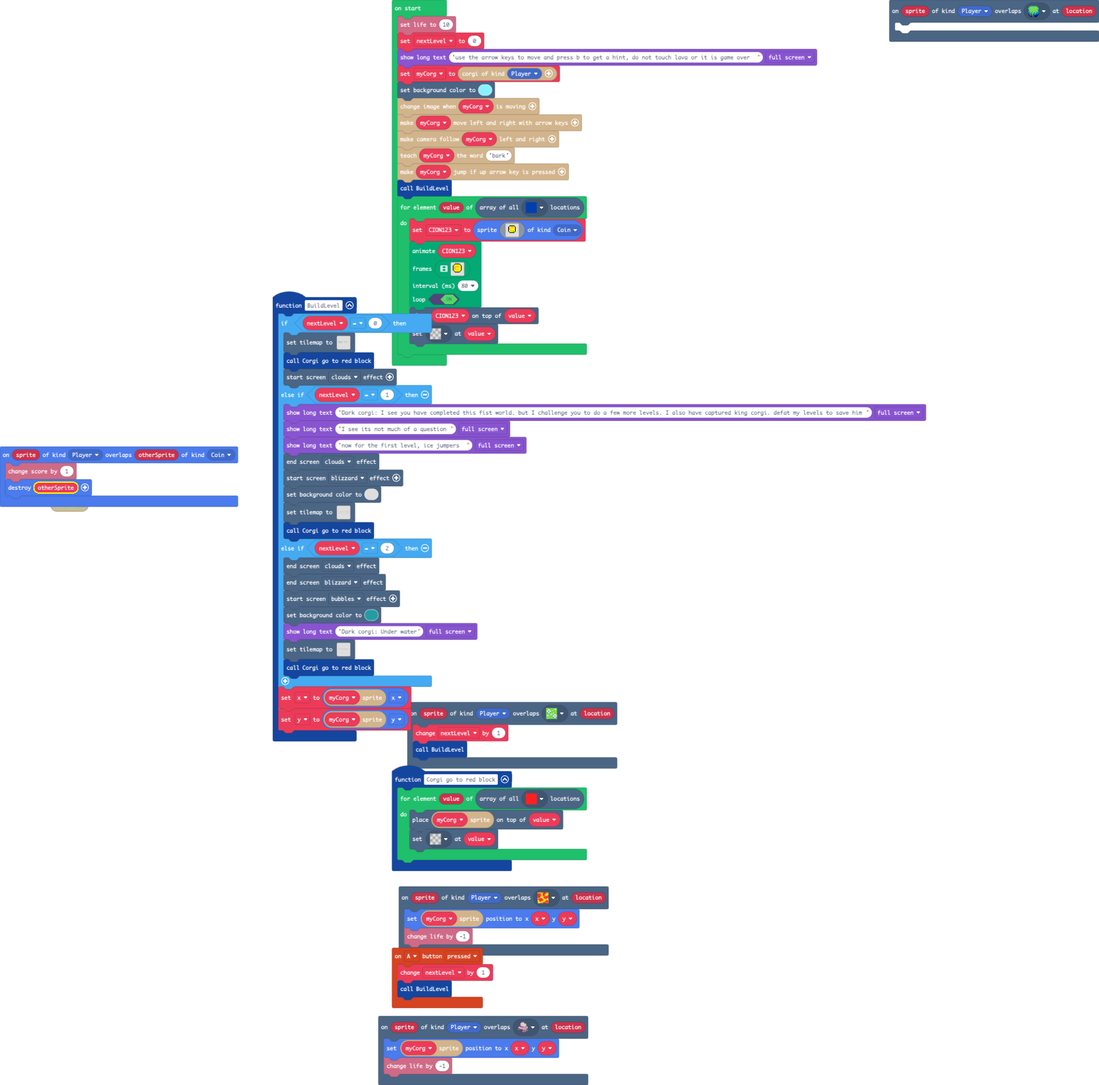
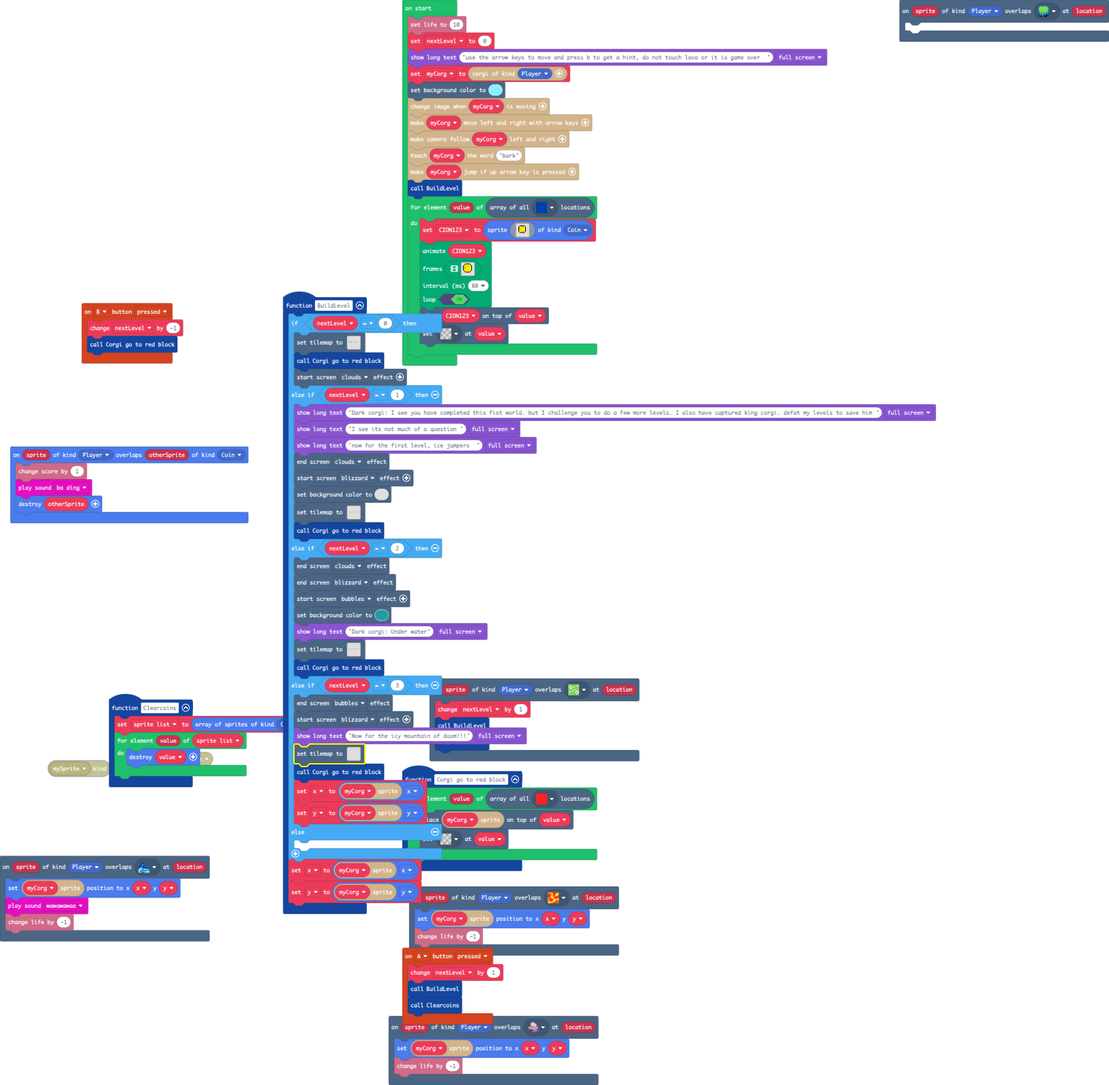
Update main.blocks, main.ts, tilemap.g.jres, tilemap.g.ts

diff --git a/tilemap.g.ts b/tilemap.g.ts
@@ -14,14 +14,18 @@ namespace myTiles {
     export const tile5 = image.ofBuffer(hex``);
     //% fixedInstance jres blockIdentity=images._tile
     export const tile6 = image.ofBuffer(hex``);
+    //% fixedInstance jres blockIdentity=images._tile
+    export const tile7 = image.ofBuffer(hex``);
+    //% fixedInstance jres blockIdentity=images._tile
+    export const tile8 = image.ofBuffer(hex``);
 
     helpers.registerTilemapFactory(function(name: string) {
         switch(helpers.stringTrim(name)) {
-            case "level": return tiles.createTilemap(hex`5000140000010101010101010101010101010101000000000000000000000100000000000000000000000000000000000000000000000000000000020202020202000000000000000000000000000000000000000000000000000007000000010000000700010101010101010100010000000000000000000202020202020101010102010101010202020202020202020200000000000000000000000004000000000000000707070000000101010001000001010000000101000000000001000000000000000000000000000000000000000200000000000000000200000000000000000000000000000000000000000000000005010101010100000101000107000001010000010101010101010100000000000000010000000000000000000000020000020202000000020000020200000000000000000000000000000000000000000000000000000000010100010100000101010000000000000000000000000000010000000000000000000000000002000000000200000002000002020200000000000000000000000000000000000600000000000000000101010000000000010101010000010101010100000000010000000000000000000002000000000202020000020000000200020202020002000002000003000003000003000000020000000000000001010101000000000101010101010000000000000000010000000000000000000000000200000000000000000002000000000002020202000000000000000000000000000000000000000101010101010101010101010101010101010101010101010101010100000000000000000000000000020202020202020202020202020202020202020200000000000000000000000000000000000000000000000000000000000000000000000000000000000000000000000000000000000000000000000000000000000000000000000000000000000000000000000000000000000000000000000000000000000000000000000000000000000000000000000000000000000000000000000000000000000000000000000000000000000000000000000000000000000000000000000000000000000000000000000202020202020202020202020202020202020202000000000000000000000000000000000000000000000000000000000000000000000000000000000000000000000000000000000000000000000000000000000000000000000000000000000000000002020202020202020202000000000000000000000000000000000000000000000000000000000000000000000000000000000000000000000000000000000000000000000000000000000000000000000000000000000000000000000000000000000000000000000000000000000000000000000000000000000000000000000000000000000000000000000000000000000000000000000000000000000000000000000000000000000000000000000000000000000000000000000000000000000000000000000000000000000000000000000000000000000000000000000000000000000000000000000000010000000000000000000000000000000000000000000000000000000000000000000000000000000000000000000000000000000000000000000000000000000000000000000000000000000000000001000000000000000000000000000000000000000000000000000000000000000000000000000000000000000000000000000000000000000000000000000000000000000000000000000000000000000100000000000000000000000000000000000000000000000000000000000000000000000000000000000000000000000000000000000000000000000000000000000000000000000000000000000000010000000000010000000000000000000000000000000000000000000000000000000000000000000000000000000000000000000000000000000000000000000000000000000000000000000000000001000000000000000000000000000000000000000000000000000000000000000000000000000000000000000000000000000000000000000000000000000000000000000000000000000000000000000100000000000000000000000000000000000000000000000000000000000000000000000000000000000000000000000000000000000000000000000000`, img`
+            case "level": return tiles.createTilemap(hex`5000140000010101010101010101010101010101000000000000000000000100000000000000000000000000000000000000000000000007070707020202020202000000000000000000000000000000000000000000000000000007000000010000000700010101010101070100010000000000000000000202020202020101010102010101010202020202020202020200000007000000000007000004000007070000000707070000000101010001000001010000000101070700000001000000000000000000000000000000000000000200000707070000000200000000000000000000000000000000000000000000000005010101010100000101000707000001010000010101010101010100000000000000010000000000000000000000020000020202000000020000020200000000000000000000000000000000000000000000000000000000010100010100000101010000000000000000000000000000010000000000000000000000000002070000000200000002000002020200000000000000000000000000000000000600000000000000000101010000000000010101010000010101010100000000010000000000000000000002000000000202020000020000000200020202020002000002000003000003000003000000020000000000000001010101000000000101010101010000000000000000010000000000000000000000000207070000000000000002000000000002020202000000000000000000000000000000000000000101010101010101010101010101010101010101010101010101010100000000000000000000000000020702020202020202020202020202020202020200000000000000000000000000000000000000000000000000000000000000000000000000000000000000000000000000000000000000000000000000000000000000000000000000000000000000000000000000000000000000000000000000000000000000000000000000000000000000000000000000000000000000000000000000000000000000000000000000000000000000000000000000000000000000000000000000000000000000000000000202020202020202020202020202020202020202000000000000000000000000000000000000000000000000000000000000000000000000000000000000000000000000000000000000000000000000000000000000000000000000000000000000000002020202020202020202000000000000000000000000000000000000000000000000000000000000000000000000000000000000000000000000000000000000000000000000000000000000000000000000000000000000000000000000000000000000000000000000000000000000000000000000000000000000000000000000000000000000000000000000000000000000000000000000000000000000000000000000000000000000000000000000000000000000000000000000000000000000000000000000000000000000000000000000000000000000000000000000000000000000000000000000010000000000000000000000000000000000000000000000000000000000000000000000000000000000000000000000000000000000000000000000000000000000000000000000000000000000000001000000000000000000000000000000000000000000000000000000000000000000000000000000000000000000000000000000000000000000000000000000000000000000000000000000000000000100000000000000000000000000000000000000000000000000000000000000000000000000000000000000000000000000000000000000000000000000000000000000000000000000000000000000010000000000010000000000000000000000000000000000000000000000000000000000000000000000000000000000000000000000000000000000000000000000000000000000000000000000000001000000000000000000000000000000000000000000000000000000000000000000000000000000000000000000000000000000000000000000000000000000000000000000000000000000000000000100000000000000000000000000000000000000000000000000000000000000000000000000000000000000000000000000000000000000000000000000`, img`
 .222222222222222..........2............................222222...................
 ...........2.....22222222...........2222222222222222222222222...................
 .......222.2..22...22.........................2........2........................
-.22222..22.2.......22222222.......22222222....2..222...2..22....................
+.22222..22.2....2..22222222.......22222222....2..222...2..22....................
 ...........22..222.......2......2........2....2....2...2..222...................
 .......222.....2222..22222....2..........2....222..2...2.2222.2..2..2..2.22...2.
 ......2222....222222.....2..2............2.........2.....2222222222222222222222.
@@ -39,7 +43,7 @@ namespace myTiles {
 ..................2.............................................................
 ..................2................................2............................
 `, [myTiles.transparency16,sprites.builtin.forestTiles0,sprites.builtin.forestTiles4,sprites.builtin.forestTiles8,myTiles.tile1,myTiles.tile5,sprites.castle.tileGrass2,myTiles.tile6], TileScale.Sixteen)
-            case "level_0": return tiles.createTilemap(hex`500010000303030303030303030303030303030303030303030303030303030303030303030303030303030303030303030303030303030303030303030303030303030303030303030303030303030303030303000000000000000000000000000000000000000000000000000000000000000000000000000000000000000000000000000000000000000000000000000000000000000000000000000000000000000300000000000000000000000000000000000000000000000000000000000000000000000000000000000000000000000000000000000000000000000000000000000000000000000000000000000000030400000000000000000000000000000000000000000000000000000000000000000000000000000000000000000000000000000000000000000000000000000000000000000000000000000000000003000000000000000000000000000000000000000000000000000000000000010101010202020202020202020202000000000000000000000000000000000000000000000000000000000000000000000300000000000700000000000000000000000000000000000000000000000000020000020000000000000000000000000000000002000000000000020000000000000000000000000000000000000600030000000000050000000001000000010000000100000000010000000100000002000002000000000000000000000000000003030303030303030303030303000200000000000200000000000000000003000303030303030303030303030303030303030303030303030303030303030200000200000000000000000000000000000000000000000000000000000303030303000303030300000000020101010300000000000000000000000000000003030000000000000000000000020000020000020000000000000000000000000000000000000000000000000000000000000303030000030303030303000000030000000000000000000000000000000000000000000000000000000000000002000002000000000000000000000000000000000000000000000000000000000000000000000000000000000000000003020200000000000000000000000000000000000000000000020000000000000200000200000000000000000000000000000000000000000000000000000000000000000000000000000200000000000302020200000000000000000000000000000000000000000000000000000000020000020000000000000000000000000000000000000000000000000000000000000000000000000000000000000000030202020200000000000000000000000000000000000200000000000000000002000002000000000000000000000000000000000000000000000000000000000000000000000000000000000000000003020202020100000000000000000000000000000000000000000000000000000200000200000000020000000200000002000000020000000002000000000000020000000000020000000000000000000302020202010100000002000000020000000200000000000000000000000000020000000000000000000000000000000000000000000000000000000000000000000000000000000000000000000000030202020202020303030303030303030303030303030303030303030303030302020202020202000303030303030303030303030303030303030303030303030303030303030303030303030303030303`, img`
+            case "level_0": return tiles.createTilemap(hex`500010000303030303030303030303030303030303030303030303030303030303030303030303030303030303030303030303030303030303030303030303030303030303030303030303030303030303030303000000000000000000000000000000000000000000000000000000000000000000000000000000000000000000000000000000000000000000000000000000000000000000000000000000000000000300000000000000000000000000000000000000000000000000000000000000000000000000000000000000000000000000000000000000000000000000000000000000000000000000000000000000030400000000000000000000000000000000000000000000000000000000000008080808080808080808080808080000000000000000000000000000000000000000000000000000000000000000000003000000000000000000000000000000000000000000000000000000000000010101010202020202020202020202000000000000080000000000000800000000000000000000000000000000000000000300000000000700000000080000000800000008000000000800000008000000020000020000000000000000000000000000000002000000000000020000000008000000000008000000000000000600030000000000050000000001000000010000000100000000010000000100000002000002000000000000000000000000000003030303030303030303030303000200000000000200000000000000000003000303030303030303030303030303030303030303030303030303030303030200000200000000000000000000000000000000000000000000000000000303030303000303030300000000020101010300000000000000000000000000000003030000000000000000000000020000020000020000000000000000000000000000000000000000000000000000000000000303030000030303030303000000030000000000000000000000000000000000000000000000000000000000000002000002000000000000000000000000000000000000000000000000000000000000000000000000000000000000000003020200000000000000000000000000000000000000000000020000000000000200000200000000000000000000000000000000000000000000000000000000000000000000000000000200000000000302020200000000000000000000000000000000000000000000000000000000020000020000000000000000000000000000000000000000000000000000000000000000000000000000000000000000030202020200000000000000000000000000000000000200000000000000000002000002000000000000000000000000000000000000000000000000000000000000000000000000000000000000000003020202020100000000000000000000000000000000000000000000000000000200000200000000020000000200000002000000020000000002000000000000020000000000020000000000000000000302020202010100000002000000020000000200000000000000000000000000020000000000000000000000000000000000000000000000000000000000000000000000000000000000000000000000030202020202020303030303030303030303030303030303030303030303030302020202020202000303030303030303030303030303030303030303030303030303030303030303030303030303030303`, img`
 ................................................................................
 ...............................2................................................
 ................................................................................
@@ -56,7 +60,7 @@ namespace myTiles {
 22222..........................2..2....2..22...2...2....2......2.....2..........
 222222...2...2...2.............2................................................
 222222.........................2222222..........................................
-`, [myTiles.transparency16,myTiles.tile3,myTiles.tile4,sprites.dungeon.hazardLava1,myTiles.tile1,myTiles.tile2,myTiles.tile5,sprites.castle.tileGrass2], TileScale.Sixteen)
+`, [myTiles.transparency16,myTiles.tile3,myTiles.tile4,sprites.dungeon.hazardLava1,myTiles.tile1,myTiles.tile2,myTiles.tile5,sprites.castle.tileGrass2,myTiles.tile6], TileScale.Sixteen)
             case "level_1": return tiles.createTilemap(hex`500010000000000000000000000000000000000000000000000000000000000000000000000000000000000000000000000000000000000000000000000000000000000000000000000000000000000000000000000000000000000000000000000000000000000000000000000000000000000000000000000000000000000000000000000000000000000000000000000000000000000000000000000000000000000000000000000000000000000000000000000000000000000000000000000000000000000000000000000000000000000000000000000000000000000000000000000000000000000000000000000000000000000000000000000000000000000000000000000000000000000000000000000000000000000000000000000000000000000000000000000000000000000000000000000000000000000000000000000000000000000000000000000000000000000000000000000000000000000000000000000000000000000000000000000000000000000000000000000000000000000000000000000000000000000000000000000000000000000000000000000000000000000000000000000000000000000000000000000000000000000000000000000000000000000000000000000000000000000000000000000000000000000000000000010101010101010101010101010101010101010101010101010101010101010101010101010101010101010101010101010101010101010100000000000000000000000000000000010101010101010101000000000000000000000000000000000000000000000000000000000000000000000000000000000000000000000000000000000000000000000000000000000000000000000000000000000000000000000000000000000000000000000000000000000000000000000000000000000000000000000000000000000000000000000000000000000000000000000000000000000000000000000000000000000000000000000000000000000000000000000000000000000000000000000000000000000000000000000000000000000000000000000000000000000000000000000000000000000300000003000000030000000300000000030000000300000003000000000300000003030303030303030303030303030303030303030303030303030303020000000000000000000000000000000000000000000000000000000000000000000000000000000000000000000000000000000000000000000000000000000000000000000000030000000000000000000000000000000000000000000000000000000000000000000000000000000000000000000000000000000000000000000000000000000000000000000000000000000000000000000000000000000000000000000000000000000000000000000000000000000000000000000000000000000000000000000000000000000000000000000000000000000000000000000000000000000000000000000000000000000000000000000000000000000000000000000000000000000000000000000000000000000000000000000000000000000000000000000000000000000000000000000000000000000000000000000000000000000000000000000000000000000000000000000000000000000000000000000000000000000000000000000000000000000000000000000000000000000000000000000000000000000000000000000000000000000000000000`, img`
 ................................................................................
 ................................................................................
@@ -75,7 +79,7 @@ namespace myTiles {
 ................................................................................
 ................................................................................
 `, [myTiles.transparency16,sprites.builtin.coral4,sprites.builtin.oceanSand3,sprites.builtin.oceanSand6], TileScale.Sixteen)
-            case "level_2": return tiles.createTilemap(hex`500010000600000000000000000000000000000000000000000000000000000000000000000000000000000000000000000000000000000000000000000000000000000000000000000000000000000000000000000000000000000000000000000000000000000000000000000000000000000000000000000000000000000000000000000000000000000000000000000000000000000000000000000000000000000000000000000000000000000000000000000000000000000000000000000000000000000000000000000000000000000000000000000000000000000000000000000000000000000000000000000000000000000000000000000000000000000000000000000000000000000000000000000000000000000000000000000000000000000000000000000000000000000000000000000000000000000000000000000000000000000000000000000000000000000000000000000000000000000000000000000000000000000000000000000000000000000000000000000000000000000000000000000000000000000000000000000000000400000004000000040000000004000000000400000000000400000000000004000000000000040000000000000000040000000000040000000000000000000000000000000000000000000000000000010101010101010101010101010101010101010101010101010101010101010401010101010101010101010101010104010101010101010105050000000500000005000000000005010101010101010101000000000000000000000000000000000000000000000000000000000000000000000000000000000000000000000000000000000000000404000000000000000000000000000000000000000000000000000000000000000000000000000000000000000000000000000000000000000000000000000000000000000000000000000000000000040400000000000000000000000000000000000000000000000000000000000000000000000000000000000000000000000000000000000000000000000000000000000000000000000000000000000000040404040404040404040404040404000300000003000000030000000300000000030000000300000003000000000300000003030303030303030303030303030303030303030303030303030303020000000000000000000000000000000000000000000000000000000000000000000000000000000000000000000000000000000000000000000000000000000000000000000000030000000000000000000000000000000000000000000000000000000000000000000000000000000000000000000000000000000000000000000000000000000000000000000000000000000000000000000000000000000000000000000000000000000000000000000000000000000000000000000000000000000000000000000000000000000000000000000000000000000000000000000000000000000000000000000000000000000000000000000000000000000000000000000000000000000000000000000000000000000000000000000000000000000000000000000000000000000000000000000000000000000000000000000000000000000000000000000000000000000000000000000000000000000000000000000000000000000000000000000000000000000000000000000000000000000000000000000000000000000000000000000000000000000000000000`, img`
+            case "level_2": return tiles.createTilemap(hex`500010000600000000000000000000000000000000000000000000000000000000000000000000000000000000000000000000000000000000000000000000000000000000000000000000000000000000000000000000000000000000000000000000000000000000000000000000000000000000000000000000000000000000000000000000000000000000000000000000000000000000000000000000000000000000000000000000000000000000000000000000000000000000000000000000000000000000000000000000000000000000000000000000000000000000000000000000000000000000000000000000000000000000000000000000000000000000000000000000000000000000000000000000000000000000000000000000000000000000000000000000000000000000000000000000000000000000000000000000000000000000000000000000000000000000000000000000000000000000000000000000000000000000000000000000000000000000000000000000000000000000000000000000000000000000000000000000000400070704000707040007070704000707070400070707000400070707070704000707070700040007070707070707040000070707070707070700000000000000000000000000000707070707070707070101010101010101010101010101010101010101010101010101010101010401010101010101010101010101010104010101010101010105050000000500000005000000000005010101010101010101000000000000000000000000000000000000000000000000000000000000000000000000000000000000000000000000000000000000000404040404040404040404040404040400000000000000000000000000000000000000000000000000000000000000000000000000000000000000000000000000000000000000000000000000000000040400000000000000000000000000000000000000000000000000000000000000000000000000000000000000000000000000000000000000000000000000000000000000000000000000000000000000040404040404040404040404040404000300000003000000030000000300000000030000000300000003000000000300000003030303030303030303030303030303030303030303030303030303020000000000000000000000000000000000000000000000000000000000000000000000000000000000000000000000000000000000000000000000000000000000000000000000030000000000000000000000000000000000000000000000000000000000000000000000000000000000000000000000000000000000000000000000000000000000000000000000000000000000000000000000000000000000000000000000000000000000000000000000000000000000000000000000000000000000000000000000000000000000000000000000000000000000000000000000000000000000000000000000000000000000000000000000000000000000000000000000000000000000000000000000000000000000000000000000000000000000000000000000000000000000000000000000000000000000000000000000000000000000000000000000000000000000000000000000000000000000000000000000000000000000000000000000000000000000000000000000000000000000000000000000000000000000000000000000000000000000000000`, img`
 ................................................................................
 ................................................................................
 ................................................................................
@@ -92,7 +96,7 @@ namespace myTiles {
 ................................................................................
 ................................................................................
 ................................................................................
-`, [myTiles.transparency16,sprites.builtin.coral4,sprites.builtin.oceanSand3,sprites.builtin.oceanSand6,sprites.castle.rock0,sprites.builtin.coral1,myTiles.tile5], TileScale.Sixteen)
+`, [myTiles.transparency16,sprites.builtin.coral4,sprites.builtin.oceanSand3,sprites.builtin.oceanSand6,sprites.castle.rock0,sprites.builtin.coral1,myTiles.tile5,myTiles.tile6], TileScale.Sixteen)
         }
         return null;
     })

diff --git a/main.ts b/main.ts
@@ -3,7 +3,12 @@ namespace SpriteKind {
 }
 sprites.onOverlap(SpriteKind.Player, SpriteKind.Coin, function (sprite, otherSprite) {
     info.changeScoreBy(1)
+    music.baDing.play()
     otherSprite.destroy()
+})
+controller.B.onEvent(ControllerButtonEvent.Pressed, function () {
+    nextLevel += -1
+    Corgi_go_to_red_block()
 })
 scene.onOverlapTile(SpriteKind.Player, sprites.builtin.forestTiles0, function (sprite, location) {
 	
@@ -11,6 +16,12 @@ scene.onOverlapTile(SpriteKind.Player, sprites.builtin.forestTiles0, function (s
 controller.A.onEvent(ControllerButtonEvent.Pressed, function () {
     nextLevel += 1
     BuildLevel()
+    Clearcoins()
+})
+scene.onOverlapTile(SpriteKind.Player, myTiles.tile8, function (sprite, location) {
+    myCorg.sprite.setPosition(x, y)
+    music.wawawawaa.play()
+    info.changeLifeBy(-1)
 })
 function BuildLevel () {
     if (nextLevel == 0) {
@@ -34,6 +45,97 @@ function BuildLevel () {
         game.showLongText("Dark corgi: Under water", DialogLayout.Full)
         tiles.setTilemap(tilemap`level_2`)
         Corgi_go_to_red_block()
+    } else if (nextLevel == 3) {
+        effects.bubbles.endScreenEffect()
+        effects.blizzard.startScreenEffect()
+        game.showLongText("Now for the icy mountain of doom!!!", DialogLayout.Full)
+        tiles.setTilemap(tiles.createTilemap(hex`5000500004000000000000000000000000000000000000000000000000000000000000000000000000000000000000000000000000000000000000000000000000000000000000000000000000000000000000000000000000000000000005000000000000000000000000000000000000000000000000000500000000000000000000000000000000000002000000000000000000000000000000000000000000000000000000000000000005000000050000000000000000000000000505000000000000000000020000000000000000050000000000000000000000000000000000000000000200000000000000000000000002000000000005000000000000000005000000000000000002020200000000000000000000000000000000000002000000000000000000000000000000020000000000000000000000000202020202020200000000000200000000000000000200000000000000000200000000000000000000000000000000000000000000000000000000000000000000000000000000000000000000000000000000000000000303030303030303030303030303030303030303030303030303030303030303030303030303030303030303030303030303030303030303030303030303030303030303030303030303030303030300000000000000000000000000000000000000000000000000000000000000000000000000000000000000000000000000000000000000000000000303000303030303030303030303030303000000000000000000000000000000000000000000000000000000000000000000000000000000000000000000000000000000000000000000000000000000000000000000000000000000000000000000000000000000000000020000000000000000000000000000000000000000000000000000000000000000000000000000000000000000000000000000000000000000000000000000000000000000000000000000000000000000000000000000000000000000000000000000000000000000000000000000000000000000000000000000000000000000000000000000000000000000000000000000000000000000000200000000000000000000000000000000000000000000000000000000000000000000000000000000000000000000000000000000000000000000000000000000000000000000000000000000000000000000000000000000000000000000000000000000000000000000000000000000000000000000000000000000000000000000000000000000000000000000000000000000000000000000000000000000000000000000000000000000000000000000000000000000000000000000000000000000000000000000000000000000000000000000000000000000000000000000000000000000000000000000000000000000000200000000000000000000000000000000000000000000000000000000000000000000000000000000000000000000000000000000000000000000000000000000000000000000000000000000000000000000000000000000000000000000000000000000000000000000000000000000000000000000000000000000000000000000000000000000000000000000000000000000000000000000000000000000000000000000000000000000000000000000000000000000000000000000000000000000000000000000000000000000000000000000000000000000000000000000000000000000000200000000000000000000000000000000000000000000000000000000000000000000000000000000000000000000000000000000000000000000000000000000000000000000000000000000000000000000000000000000000000000000000000000000000000000000000000000000000000000000000000000000000000000000000000000000000000000000000000000000000000000000000000000000000000000000000000000000000000000000000000000000000000000000000000000000000000000000000000000000000000000000000000000000000000000000000000000000000000000000000000000000020000000000000000000000000000000000000000000000000000000000000000000000000000000000000000000000000000000000000000000000000000000000000000000000000000000000000000000000000000000000000000000000000000000000000000000000000000000000000000000000000000000000000000000000000000000000000000000000000000000000000000000002000000000000000000000000000000000000000000000000000000000000000000000000000000000000000000000000000000000000000000000000000000000000000000000000000000000000000000000000000000000000000000000000000000000000000000000000000000000000000000000000000000000000000000000000000000000000000000000000000000000000000000000000000000000000000000000000000000000000000000000000000000000000000000000000000000000000000000000000000000000000000000000000000000000000000000000000000000000000000000000000000000000000000000000000000000000000000000000000000000000000000000000000000000000000000000000000000000000000000000000000000000000000000000000000000000000000000000000002000000000000000000000000000000000000000000000000000000000000000000000000000000000000000000000000000000000000000000000000000000000000000000000000000000000000000000000000000000000000000000000000000000000000000000000000000000000000000000000000000000000000000000000000000000000000000000000000000000000000000000000000000000000000000000000000000000000000000000000000000000000000000000000000000000000000000000000000000000000000000000000000000000000000000000000000000000000000000002000000000000000000000000000000000000000000000000000000000000000000000000000000000000000000000000000000000000000000000000000000000000000000000000000000000000000000000000000000000000000000000000000000000000000000000000000000000000000000000000000000000000000000000000000000000000000000000000000000000000000000000000000000000000000000000000000000000000000000000000000000000000000000000000000000000000000000000000000000000000000000000000000000000000000000000000000000000000000000000000000000000000000000000000000000000000000000000000000000000000000000000000000000000000000000000000000000000000000000000000000000000000000000000000000000000000000000000000000000000000000000000000000000000000000000000000000000000000000000000000000000000000000000000000000000000000000000000000000000000000000000000000000000000000000000000000000000000000000000000000000000000000000000000000000000000000000000000000000000000000000000000000000000000000000000000000000000000000000000000000020000000000000000000000000000000000000000000000000000000000000000000000000000000000000000000000000000000000000000000000000000000000000000000000000000000000000000000000000000000000000000000000000000000000000000000000000000000000000000000000000000000000000000000000000000000000000000000000000000000000000000000000000000000000000000000000000000000000000000000000000000000000000000000000000000000000000000000000000000000000000000000000000000000000000000000000000000000000000000000000000000000000000000000000000000000000000000000000000000000000000000000000000000000000000000000000000000000000000000000000000000000000000000000000000000000000000000000000000200000000000000000000000000000000000000000000000000000000000000000000000000000000000000000000000000000000000000000000000000000000000000000000000000000000000000000000000000000000000000000000000000000000000000000000000000000000000000000000000000000000000000000000000000000000000000000000000000000000000000000000000000000000000000000000000200000000000000000000000000000000000000000000000000000000000000000000000000000000000000000000000000000000000000000000000000000000000000000000000000000000000000000000000000000000000000000000000000000000000000000000000000000000000000000000000000000000000000000000000000000000000000000000000000000000000000000000000000000000000000000000000200000000000000000000000000000000000000000000000000000000000000000000000000000000000000000000000000000000000000000000000000000000000000000000000000000000000000000000000000000000000000000000000000000000000000000000000000000000000000000000000000000000000000000000000000000000000000000000000000000000000000000000000000000000000000000000000000000000000000000000000000000000000000000000000000000000000000000000000000000000000000000000000000000000000000000000000000000000000000000000000000000000000000000000000000000000000000000000000000000000000000000000000000000000000000000000000000000000000000000000000000000000000000000000000000000000000000000000000000000002000000000000000000000000000000000000000000000000000000000000000000000000000000000000000000000000000000000000000000000000000000000000000000000000000000000000000000000000000000000000000000000000000000000000000000000000000000000000000000000000000000000000000000000000000000000000000000000000000000000000020000000000000000000000000000000000000000000000000000000000000000000000000000000000000000000000000000000000000000000000000000000000000000000000020000000000000000000000000000000000000000000000000000000000000000000000000000000000000000000000000000000000000000000000000000000000000000000000000000000000000000000000000000000000000000000000000000000000000000000000000000000000000000000000000000000000000000000000000000000000000000000000000000000000000000000000000000000000000000000000000000000000000000000000000000000000000000000000000000000000000000000000000000000000000000000000000000000000000000000000000002000000000000000000000000000000000000000000000000000000000000000000000000000000000000000000000000000000000000000000000000000000000000000000000000000000000000000000000000000000000000000000000000000000000000000000000000000000000000000000000000000000000000000000000000000000000000000000000000000000000000000000000000000000000000000000000000000000000000000000000000000000000000000000000000000000000000000000000000000000000000000000000000000000000000000000000000000000000000000000000000000000000000000000000000000000000000000000000000000000000000000000000000000000000000000000000000000000000000000000000000000000000000000000000000000000000000000000000000000000000000000000000000000000000000000000000000000000000000000000000000000000000000000000000000000000000000000000000000000000000000000000000000000000000000000000000000000000000000000000000000000000000000000000000000000000000000000000000000000000000000000000000000000000000000000000000000000000000000000000000000000000000002000000000000000000000000000000000000000000000000000000000000000000000000000000000000000000000000000000000000000000000000000000000000000000000000000000000000000000000000000000000000000000000000000000000000000000000000000000000000000000000000000000000000000000000000000000000000000000000000000000000000000000000000000000000000000000000000000000000000000000000000000000000000000000000000000000000000000000000000000000000000000000000000000000000000000000000000000000000000000000000000000000000002000000000000000000000000000000000000000000000000000000000000000000000000000000000000000000000000000000000000000000000000000000000000000000000000000000000000000000000000000000000000000000000000000000000000000000000000000000000000000000000000000000000000000000000000000000000000000000000000000000000000000000000000000000000000000000020000000000000000000000000000000000000000000000000000000000000000000000000000000000000000000000000000000000000000000000000000000000000000000000000000000000000000000000000000000000000000000000000000000000000000000000000000000000000000000000000000000000000000000000000000000000000000000000000000000000000000000000000000000000000000000000000000000000000000000000000000000000000000000000000000000000000000000000000000000000000000000000000000000000000000000000000000000000000000000000000000000000000200000000000000000000000000000000000000000000000000000000000000000000000000000000000000000000000000000000000000000000000000000000000000000000000000000000000000000000000000000000000000000000000000000000000000000000000000000000000000000000000000000000000000000000000000000000000000000000000000000000000000000000000002000002000000000000000000000000000000000000000000000000000000000000000000000000000000000000000000000000000000000000000000000000000000000000000000000000000000000000000200000000000000000000000000000000000000000000000000000000000000000000000000000000000000000000000000000000000000000000000000000000000000000000000000020000000000020000000000000000000000000000000000000000000000000000000000000000000000000000000000000000000000000000000000000000000000000000000000000000000000000002000000000002000000000000000000000000000000000000000000000000000000000000000000000000000000000000000000000000000000000000000000000000000000000000000000000000000200000000000200000000000000000000000000000000000000000000000000000000000000000000000000000000000000000000000000000000000000000000000000000000000000000002000000020000000002020000000000000000000000000000000000000000000000000000000000000000000000000000000000000000000000000000000000000000000000000000000002000000000200000002000000000202000000000000000000000000000000000000000000000000000000000000000000000000000000000000000000000000000000000000000000000002000000000200000000020000000200000000020200000000000000000000000000000000000000000000000000000000000000000000000000000000000000000000000000000000000002000000000200000000020000000002000000020000000002020000000000000000000000000000000000000000000000000000000000000000000000000000000000000000000000000000000001010000000000020000000002000000000200000002000000000202000000000000000000000000000000000000000000000000000000000000000000000000000000000000000000000000000000010100000000000002000000000202000000020000000200000000020200000000000000000000000000000000000000000000000000000000000000000000000000000000000000000000000000000100010003030303030203030303030203030303030303030303030303020303030303030303030303030303030303030303030303030303030303030303030303030303030303030303030303030303`, img`
+            ................................................................................
+            .......................................................2........................
+            ....................................2..............................2............
+            2.......................222..................2...............22...........222222
+            2.....2........2........2.......................................................
+            ................................................................................
+            ................................................................................
+            ................................................................................
+            ......2.........................................................................
+            ................................................................................
+            2...............................................................................
+            ................................................................................
+            ................................................................................
+            ......2.........................................................................
+            ................................................................................
+            ................................................................................
+            2...............................................................................
+            ................................................................................
+            ................................................................................
+            .....2..........................................................................
+            ................................................................................
+            22..............................................................................
+            ................................................................................
+            ................................................................................
+            ................................................................................
+            ....2...........................................................................
+            ................................................................................
+            ................................................................................
+            .2..............................................................................
+            ................................................................................
+            ................................................................................
+            ................................................................................
+            ................................................................................
+            ................................................................................
+            ..2.............................................................................
+            ................................................................................
+            ................................................................................
+            ................................................................................
+            .......2........................................................................
+            ................................................................................
+            ...............2................................................................
+            ................................................................................
+            .......................2........................................................
+            ................................................................................
+            ................................................................................
+            ................................................................................
+            ...............................2................................................
+            ................................................................................
+            ......................2.........................................................
+            ..............22................................................................
+            ................................................................................
+            ................................................................................
+            ....2...........................................................................
+            ................................................................................
+            ................................................................................
+            ................................................................................
+            ................................................................................
+            ................................................................................
+            ..........2.....................................................................
+            ................................................................................
+            ................................................................................
+            ................2...............................................................
+            ................................................................................
+            ......................2.........................................................
+            ................................................................................
+            ................................................................................
+            .............................2..................................................
+            ................................................................................
+            ..........................2.....................................................
+            ................................................................................
+            .......................2........................................................
+            .......................2........................................................
+            ................................................................................
+            ...................2............................................................
+            ..............2.................................................................
+            .........2....2.................................................................
+            ....2....2......................................................................
+            ..22.....2......................................................................
+            .22......2......................................................................
+            22..............................................................................
+            `, [myTiles.transparency16,myTiles.tile3,myTiles.tile4,myTiles.tile8,myTiles.tile5,myTiles.tile6], TileScale.Sixteen))
+        Corgi_go_to_red_block()
+        x = myCorg.sprite.x
+        y = myCorg.sprite.y
+    } else {
+    	
     }
     x = myCorg.sprite.x
     y = myCorg.sprite.y
@@ -52,10 +154,18 @@ function Corgi_go_to_red_block () {
         tiles.setTileAt(value, myTiles.transparency16)
     }
 }
+function Clearcoins () {
+    sprite_list = sprites.allOfKind(SpriteKind.Coin)
+    for (let value of sprite_list) {
+        value.destroy()
+    }
+}
 scene.onOverlapTile(SpriteKind.Player, sprites.castle.tileGrass2, function (sprite, location) {
     nextLevel += 1
     BuildLevel()
+    Clearcoins()
 })
+let sprite_list: Sprite[] = []
 let y = 0
 let x = 0
 let CION123: Sprite = null
